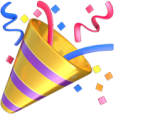
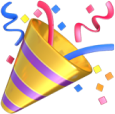
Changes in the Customer Mails

diff --git a/helper/ResetPasswordOtpToAll.js b/helper/ResetPasswordOtpToAll.js
@@ -1054,7 +1054,6 @@ module.exports = function (OTP, data, type, to) {
                           >
                             <table
                               border="0"
-                              cellpadding="10"
                               cellspacing="0"
                               class="paragraph_block block-2"
                               role="presentation"
@@ -1075,7 +1074,7 @@ module.exports = function (OTP, data, type, to) {
                                     "
                                   >
                                     <p style="line-height: 18px">
-                                      ${preOtpText}
+                                       ${preOtpText} <br/> ${postOtpText}
                                    
                                     </p>
                                   </div>
@@ -1161,88 +1160,7 @@ module.exports = function (OTP, data, type, to) {
         </tr>
       </tbody>
     </table> 
-    
-    
-    
-              <table
-              align="center"
-              border="0"
-              cellpadding="0"
-              cellspacing="0"
-              class="row row-6"
-              role="presentation"
-              width="100%"
-            >
-              <tbody>
-                <tr>
-                  <td>
-                    <table
-                      align="center"
-                      border="0"
-                      cellpadding="0"
-                      cellspacing="0"
-                      class="row-content stack"
-                      role="presentation"
-                      style="
-                        border-radius: 0;
-                        color: #000;
-                        width: 500px;
-                        margin: 0 auto;
-                      "
-                      width="500"
-                    >
-                      <tbody>
-                        <tr>
-                          <td
-                            class="column column-1"
-                            style="
-                              font-weight: 400;
-                              text-align: left;
-                              vertical-align: top;
-                              border-top: 0px;
-                              border-right: 0px;
-                              border-bottom: 0px;
-                              border-left: 0px;
-                            "
-                            width="100%"
-                          >
-                            <table
-                              border="0"
-                              cellpadding="10"
-                              cellspacing="0"
-                              class="paragraph_block block-2"
-                              role="presentation"
-                              style="word-break: break-word"
-                              width="100%"
-                            >
-                              <tr>
-                                <td>
-                                  <div
-                                    style="
-                                      color: #000000cc;
-                                      direction: ltr;
-                                      font-family: Chivo, sans-serif;
-                                      font-size: 16px;
-                                      font-weight: 400;
-                                      letter-spacing: 0px;
-                                      text-align: left;
-                                    "
-                                  >
-                                    <p style="line-height: 18px">
-                                      ${postOtpText}
-                                    </p>
-                                  </div>
-                                </td>
-                              </tr>
-                            </table>
-                          </td>
-                        </tr>
-                      </tbody>
-                    </table>
-                  </td>
-                </tr>
-              </tbody>
-            </table>
+
        ${footer}
       `,
       },

diff --git a/helper/AppointmentEmailsToCustomer.js b/helper/AppointmentEmailsToCustomer.js
@@ -78,7 +78,7 @@ module.exports = function (to, data, state = 'book') {
                                       width: 100%;
                                     "
                                   >
-                                    <div style="float: left; width: auto;">
+                                    <div style="float: left;  font-weight: bold; width: auto;">
                                       <div>${ele?.service?.serviceName}</div>
                                       <div
                                         style="
@@ -89,8 +89,7 @@ module.exports = function (to, data, state = 'book') {
                                          ${ele.duration} mints  ${employee} 
                                       </div>
                                     </div>
-
-                                    <div style="float: right; width: auto;">${CURRENCY_UNIT} ${ele.total}</div>
+                                    <div style="float: right; width: auto; font-weight: bold;">${CURRENCY_UNIT} ${ele.total}</div>
                                   </div>
                                 </td>
                               </tr>
@@ -1249,7 +1248,7 @@ module.exports = function (to, data, state = 'book') {
                                     style="
                                       font-size: 16px;
                                       font-family: Chivo, sans-serif;
-                                      font-weight: 400;
+                                      font-weight: 700;
                                       width: 100%;
                                       clear: both;
                                     "
@@ -1491,7 +1490,7 @@ module.exports = function (to, data, state = 'book') {
                                           style="
                                             font-size: 16px;
                                             font-family: Chivo, sans-serif;
-                                            font-weight: 400;
+                                            font-weight: 700;
                                             display: flex;
                                             justify-content: space-between;
                                             color: #00000099;
